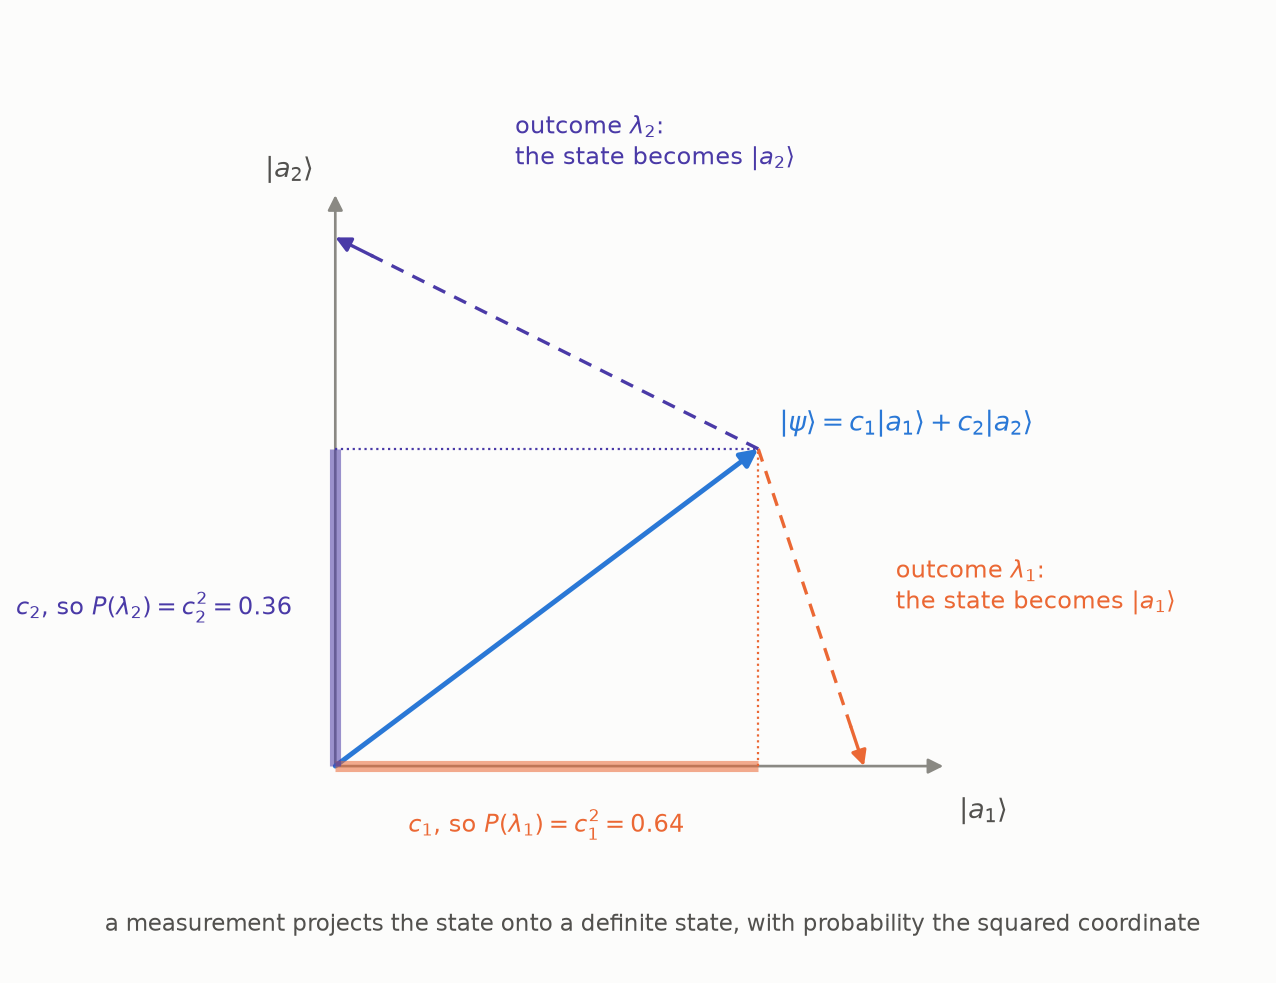
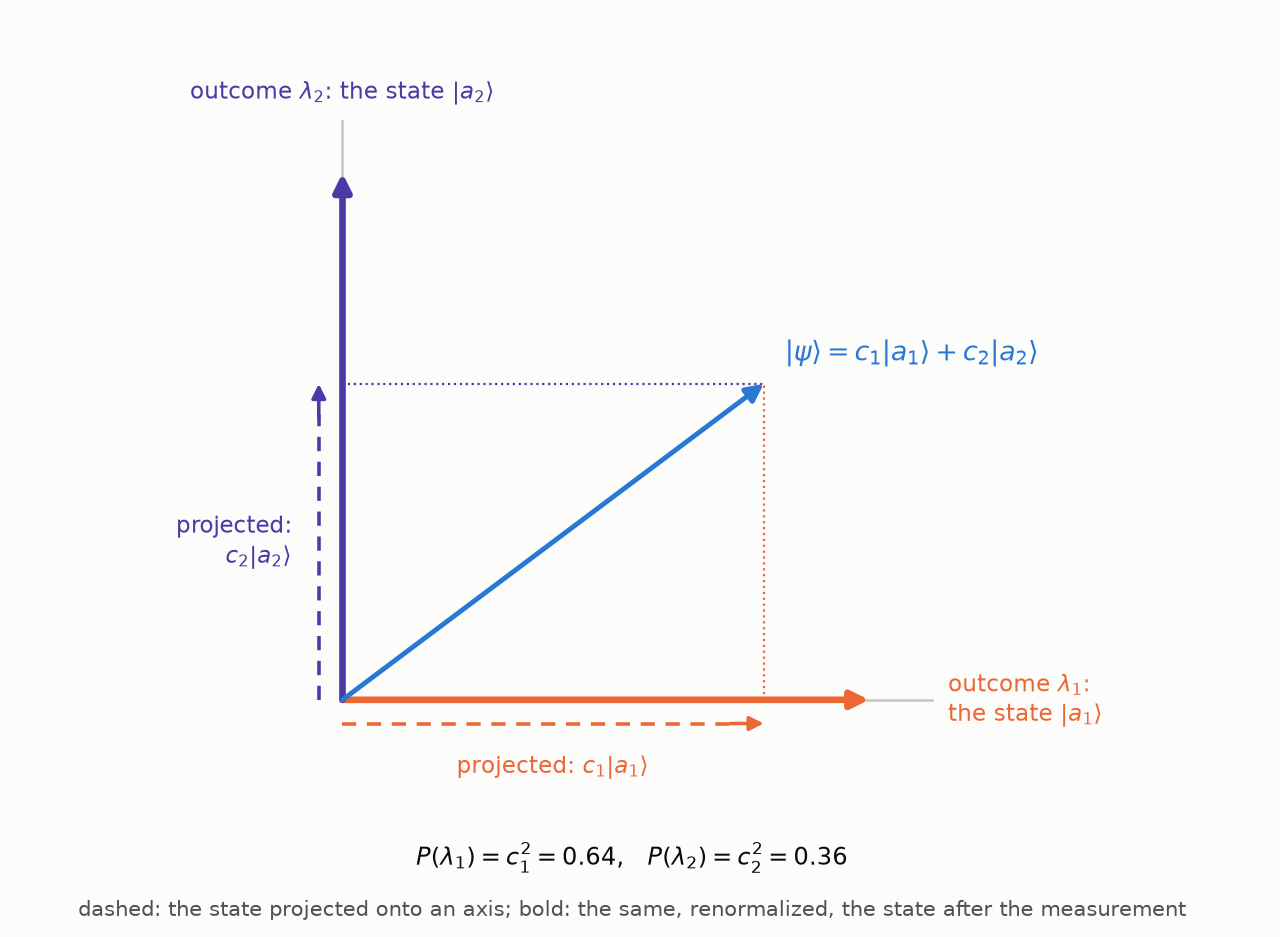
What a Measurement Does: measurement_projection shows the projected vectors dashed and the unit vectors bold, on the axes

diff --git a/content/quantum/what-a-measurement-does/index.md b/content/quantum/what-a-measurement-does/index.md
@@ -118,7 +118,7 @@ physical state, since a
 [global phase](/quantum/states-are-vectors/#global-phase) changes
 nothing measurable.
 
-![Measurement as projection: a state is projected onto one of the definite directions of the observable, with probability given by the squared coordinate, and renormalized](measurement_projection.png)
+![Measurement as projection: the state is projected onto each axis (dashed: c1|a1⟩ and c2|a2⟩), and after the outcome λ_i it becomes the renormalized projection, the unit vector |a_i⟩ (bold); the probabilities are c1² = 0.64 and c2² = 0.36](measurement_projection.png)
 
 ### The three experiments
 
